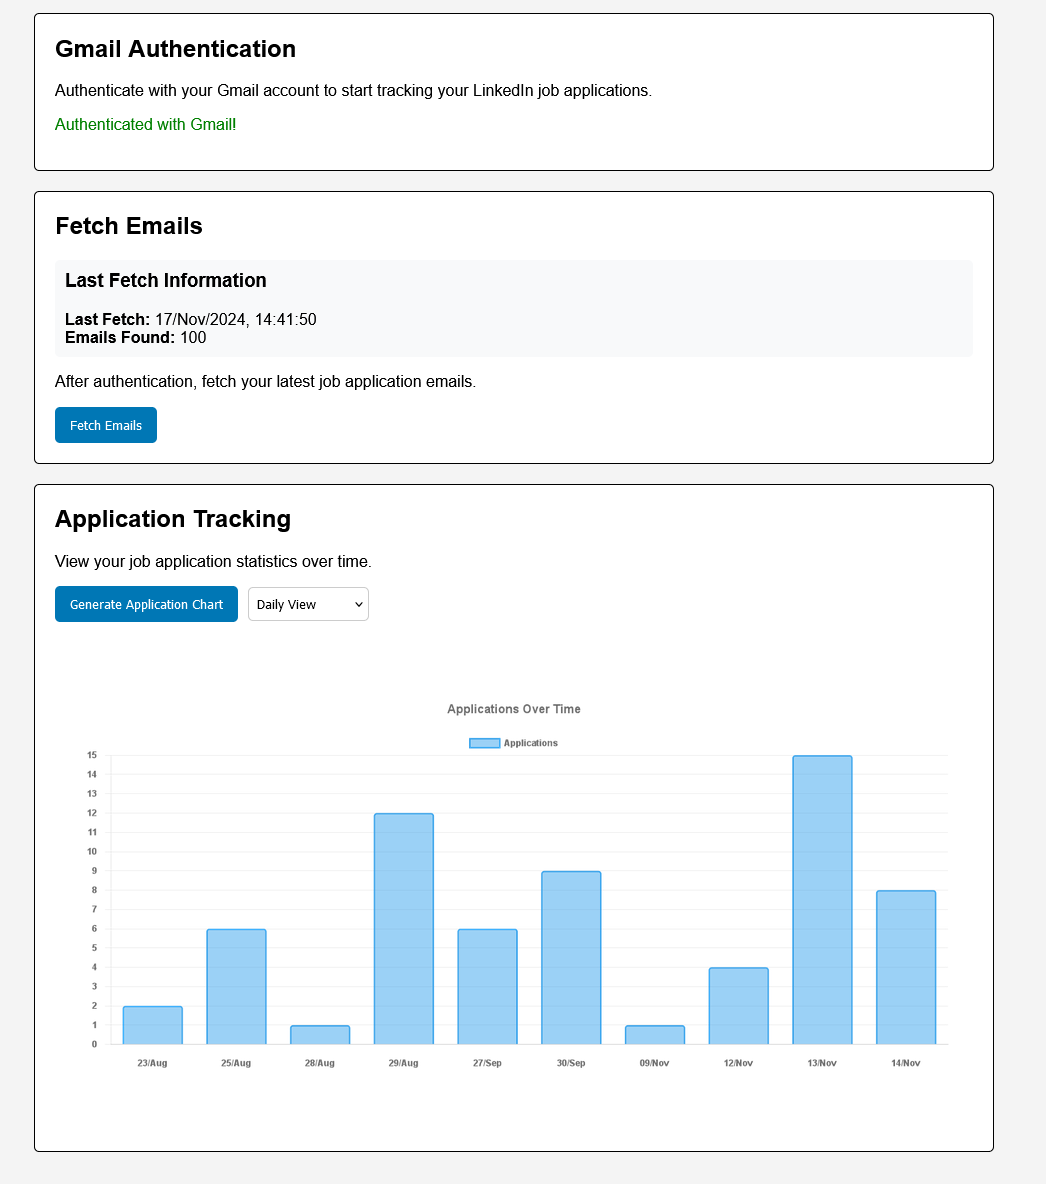
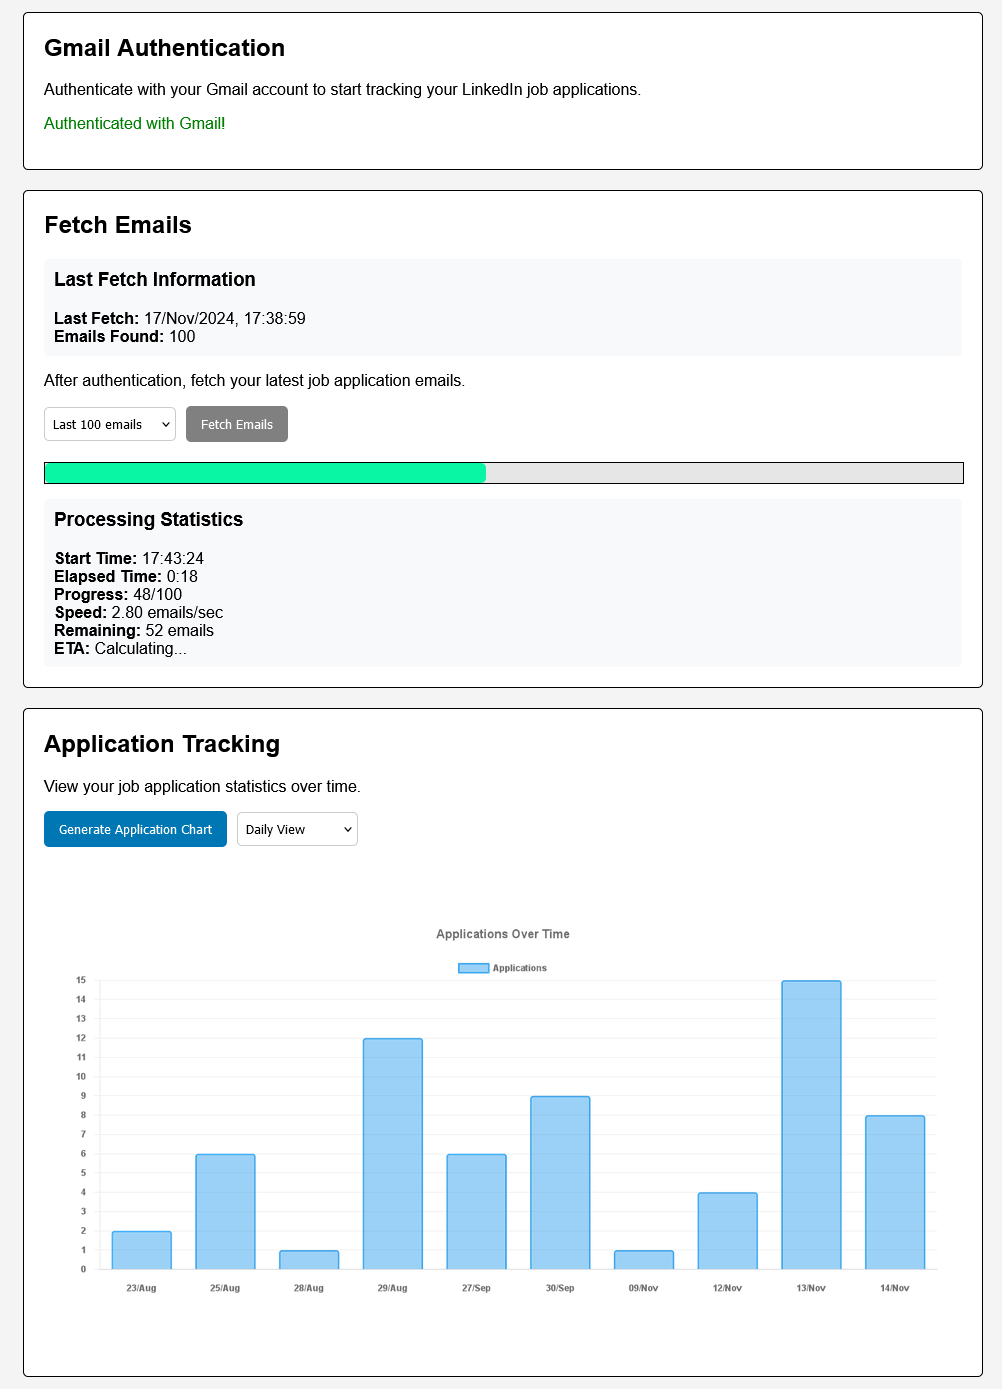
fetch update

diff --git a/source/app.js b/source/app.js
@@ -81,11 +81,22 @@ app.get('/fetch_emails', async (req, res) => {
     const gmailFetchService = require('./services/gmailFetchService');
     let emailCount = 0;
 
+    // Extract the 'amount' parameter from the query string
+    const amountParam = req.query.amount || '100'; // Default to '100' if not provided
+
+    let amount;
+    if (amountParam === 'all') {
+        amount = null; // Set to null or a very high number to indicate 'fetch all'
+    } else {
+        amount = parseInt(amountParam, 10);
+    }
+
     try {
-        for await (const update of gmailFetchService.fetchEmailsGenerator()) {
+        // Pass the 'amount' parameter to the fetchEmailsGenerator function
+        for await (const update of gmailFetchService.fetchEmailsGenerator(amount)) {
             res.write(`data: ${update}\n\n`);
-            
-            // Count processed emails
+
+            // Update email count for metadata
             const data = JSON.parse(update);
             if (data.emails_processed && data.total_emails) {
                 emailCount = data.total_emails;

diff --git a/README.md b/README.md
@@ -6,6 +6,8 @@ LinkedIn Application Tracker is a web application that helps you monitor your Li
 
 ## Features
 
+![Overview](pictures/7.png)
+
 ### Gmail Integration
 - **Secure Authentication**: OAuth 2.0 integration with Gmail API
 - **Email Analysis**: Fetches and analyzes LinkedIn application emails
